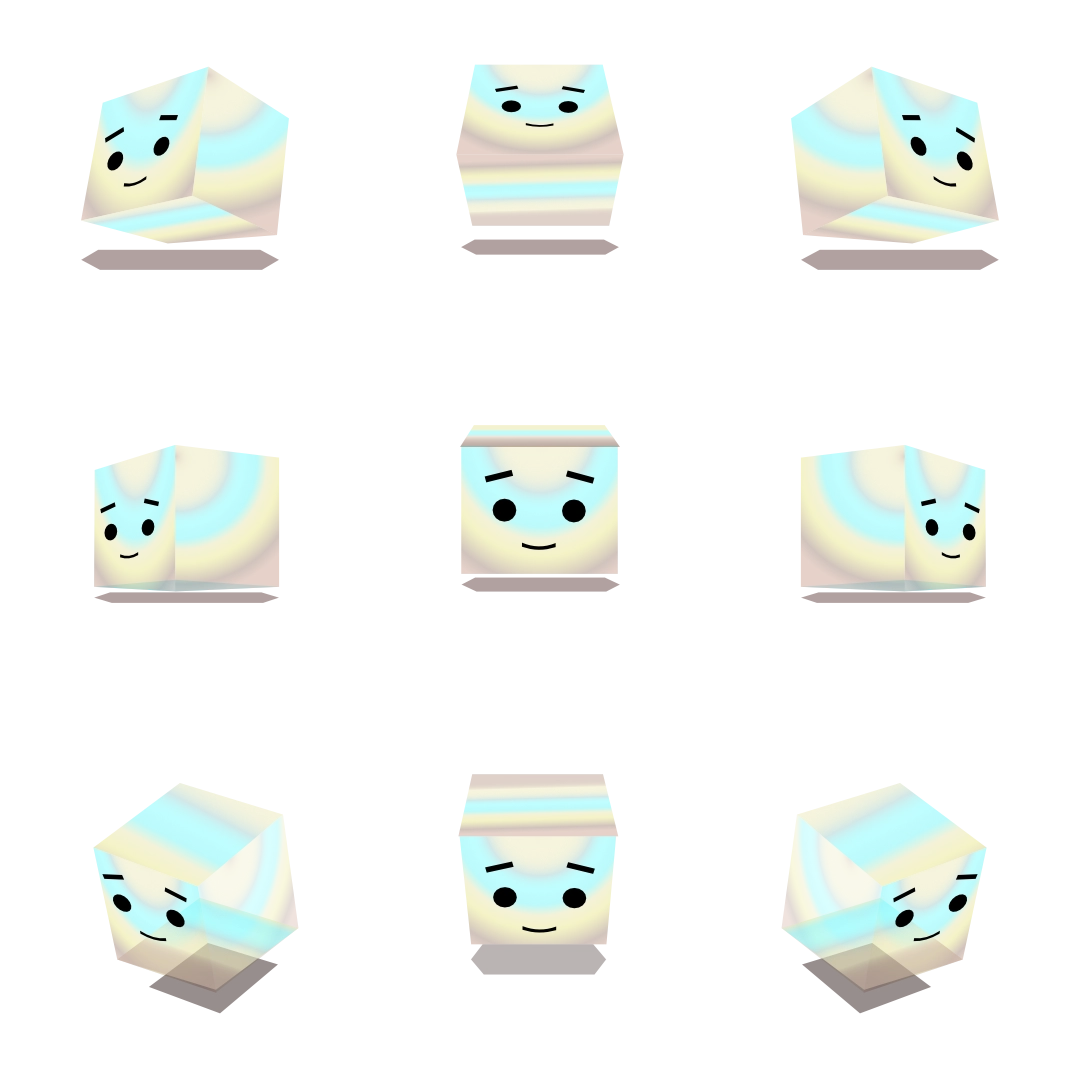
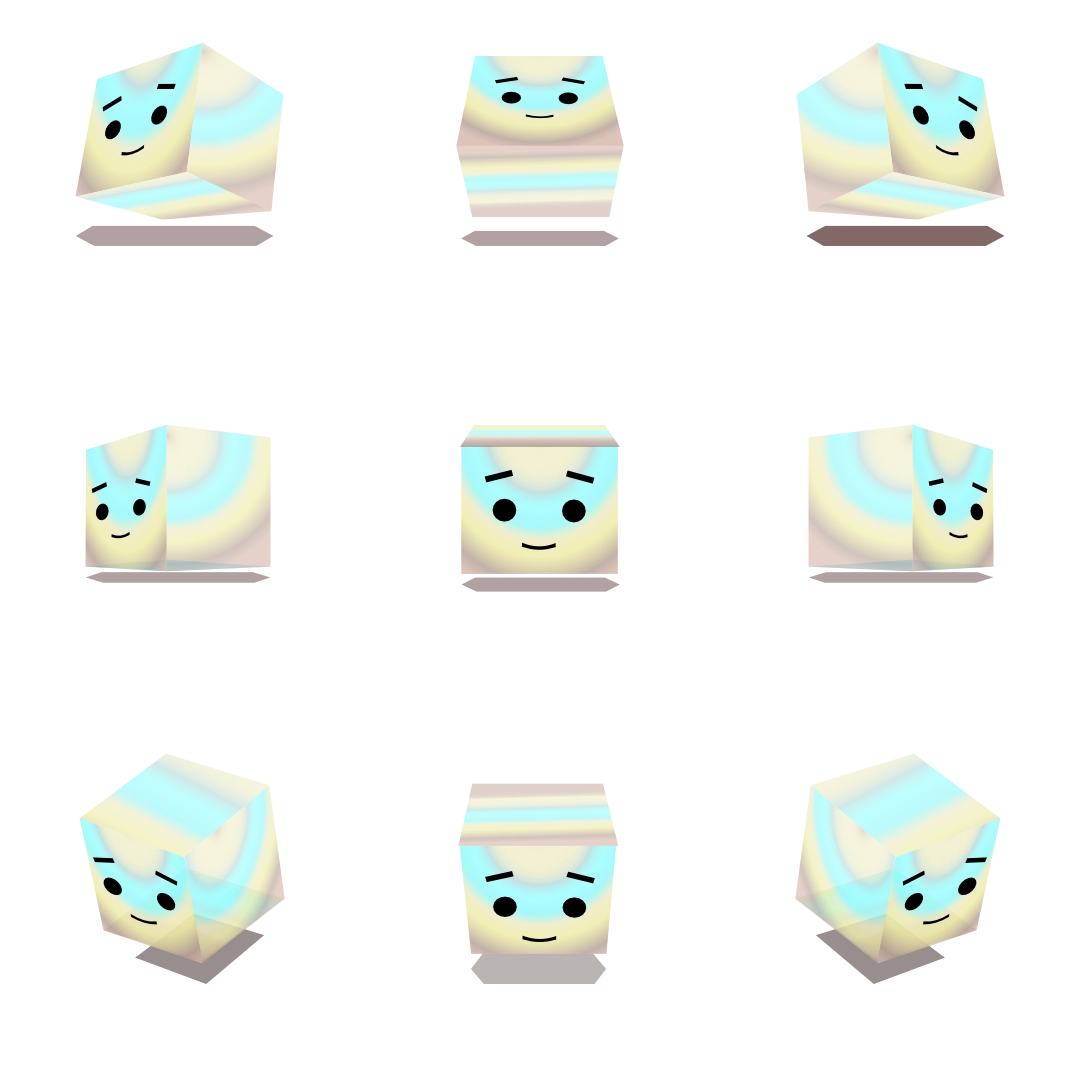
fix(island): tools were showing as disabled (greyed out) because of legacy showTools state

diff --git a/src/features/core/UniversalToolsBar.tsx b/src/features/core/UniversalToolsBar.tsx
@@ -685,10 +685,10 @@ export const UniversalToolsBar: React.FC = () => {
     const docks: React.ReactNode[] = [];
     
     if (islandEnabled) {
-        if (isInventory && toolsOpen && isInvSearchOpen) docks.push(<SubmenuCard key="inv-search" id="inv-search" title={tr("Search")} onClose={() => setIsInvSearchOpen(false)}>{renderInvSearch()}</SubmenuCard>);
-        if (isInventory && toolsOpen && isInvViewSliderOpen) docks.push(<SubmenuCard key="inv-view" id="inv-view" title={tr("View")} onClose={() => setIsInvViewSliderOpen(false)}>{renderInvView()}</SubmenuCard>);
-        if (isInventory && toolsOpen && isInvFiltersOpen) docks.push(<SubmenuCard key="inv-filters" id="inv-filters" title={tr("Filters")} onClose={() => setIsInvFiltersOpen(false)}><InventoryFiltersPanel /></SubmenuCard>);
-        if (isInventory && toolsOpen && smartOpen) docks.push(<SubmenuCard key="inv-smart" id="inv-smart" title={tr("Smart Filters")} onClose={() => setSmartOpen(false)}><InventorySmartFiltersPanel /></SubmenuCard>);
+        if (isInventory && isInvSearchOpen) docks.push(<SubmenuCard key="inv-search" id="inv-search" title={tr("Search")} onClose={() => setIsInvSearchOpen(false)}>{renderInvSearch()}</SubmenuCard>);
+        if (isInventory && isInvViewSliderOpen) docks.push(<SubmenuCard key="inv-view" id="inv-view" title={tr("View")} onClose={() => setIsInvViewSliderOpen(false)}>{renderInvView()}</SubmenuCard>);
+        if (isInventory && isInvFiltersOpen) docks.push(<SubmenuCard key="inv-filters" id="inv-filters" title={tr("Filters")} onClose={() => setIsInvFiltersOpen(false)}><InventoryFiltersPanel /></SubmenuCard>);
+        if (isInventory && smartOpen) docks.push(<SubmenuCard key="inv-smart" id="inv-smart" title={tr("Smart Filters")} onClose={() => setSmartOpen(false)}><InventorySmartFiltersPanel /></SubmenuCard>);
         if (isInventory && isSelectionMode) docks.push(<SubmenuCard key="inv-select" id="inv-select" title={tr("Batch Management")} onClose={() => setIsSelectionMode(false)}>{renderInvSelection()}</SubmenuCard>);
         if (isFinance && isFinSearchOpen) docks.push(<SubmenuCard key="fin-search" id="fin-search" title={tr("Search Payments")} onClose={() => setIsFinSearchOpen(false)}>{renderFinSearch()}</SubmenuCard>);
         if (isFinance && isFinFiltersOpen) docks.push(<SubmenuCard key="fin-filters" id="fin-filters" title={tr("Filters")} onClose={() => setIsFinFiltersOpen(false)}>{renderFinFilters()}</SubmenuCard>);
@@ -707,8 +707,8 @@ export const UniversalToolsBar: React.FC = () => {
             {!islandEnabled && ((isInventory && toolsOpen && (isInvSearchOpen || isInvViewSliderOpen)) || (isFinance && isFinSearchOpen)) && (
                 <div className="w-full animate-in slide-in-from-top duration-500 overflow-hidden pr-4 pl-4">
                     <div className="w-full mx-auto px-6 py-3 flex flex-col gap-4">
-                        {isInventory && toolsOpen && isInvSearchOpen && renderInvSearch()}
-                        {isInventory && toolsOpen && isInvViewSliderOpen && renderInvView()}
+                        {isInventory && isInvSearchOpen && renderInvSearch()}
+                        {isInventory && isInvViewSliderOpen && renderInvView()}
                         {isFinance && isFinSearchOpen && renderFinSearch()}
                     </div>
                 </div>
@@ -729,14 +729,15 @@ export const UniversalToolsBar: React.FC = () => {
 
             {!islandEnabled && isFinUpcomingOpen && isFinance && renderFinUpcoming("animate-in slide-in-from-top duration-500 overflow-hidden bg-amber-500/5")}
 
-            {!islandEnabled && isInventory && toolsOpen && smartOpen && (
+            {!islandEnabled && isInventory && smartOpen && (
                 <InventorySmartFiltersPanel />
             )}
 
-            {!islandEnabled && isInventory && toolsOpen && isInvFiltersOpen && (
+            {!islandEnabled && isInventory && isInvFiltersOpen && (
                 <InventoryFiltersPanel />
             )}
 
         </div>
     );
 };
+

diff --git a/src/features/core/inventoryTools.tsx b/src/features/core/inventoryTools.tsx
@@ -93,7 +93,7 @@ export function useInventoryTools(widgets: InventoryWidgets): ToolDescriptor[] {
 
     tools.push({
         id: 'inventory.view',
-        disabled: !showTools,
+        
         moduleId: 'inventory',
         label: tr('View'),
         icon: LayoutTemplate,
@@ -102,12 +102,12 @@ export function useInventoryTools(widgets: InventoryWidgets): ToolDescriptor[] {
         order: 70,
         pinned: true,
         pressed: isViewSliderOpen,
-        run: () => setIsViewSliderOpen(!isViewSliderOpen)
+        run: () => { setShowTools(true); setIsViewSliderOpen(!isViewSliderOpen); }
     });
 
     tools.push({
         id: 'inventory.filter',
-        disabled: !showTools,
+        
         moduleId: 'inventory',
         label: tr('Filter'),
         icon: Filter,
@@ -116,12 +116,12 @@ export function useInventoryTools(widgets: InventoryWidgets): ToolDescriptor[] {
         order: 80,
         pinned: true,
         pressed: isFiltersOpen,
-        run: () => setIsFiltersOpen(!isFiltersOpen)
+        run: () => { setShowTools(true); setIsFiltersOpen(!isFiltersOpen); }
     });
 
     tools.push({
         id: 'inventory.search',
-        disabled: !showTools,
+        
         moduleId: 'inventory',
         label: tr('Search'),
         icon: SearchIcon,
@@ -130,12 +130,12 @@ export function useInventoryTools(widgets: InventoryWidgets): ToolDescriptor[] {
         order: 90,
         pinned: true, // "Pin by default: Actions, search, filters, view."
         pressed: isSearchOpen || !!search,
-        run: () => setIsSearchOpen(!isSearchOpen)
+        run: () => { setShowTools(true); setIsSearchOpen(!isSearchOpen); }
     });
 
     tools.push({
         id: 'inventory.tags',
-        disabled: !showTools,
+        
         moduleId: 'inventory',
         label: tr('Tags'),
         title: tr('Smart filters — type, shape, material, colour'),
@@ -144,7 +144,7 @@ export function useInventoryTools(widgets: InventoryWidgets): ToolDescriptor[] {
         group: tr('Filters'),
         order: 100,
         pressed: showSmart,
-        run: () => setShowSmart(!showSmart)
+        run: () => { setShowTools(true); setShowSmart(!showSmart); }
     });
 
     return tools;
@@ -158,3 +158,4 @@ export const InventoryToolsRegistrar: React.FC<{ widgets: InventoryWidgets }> = 
 
     return null;
 };
+
